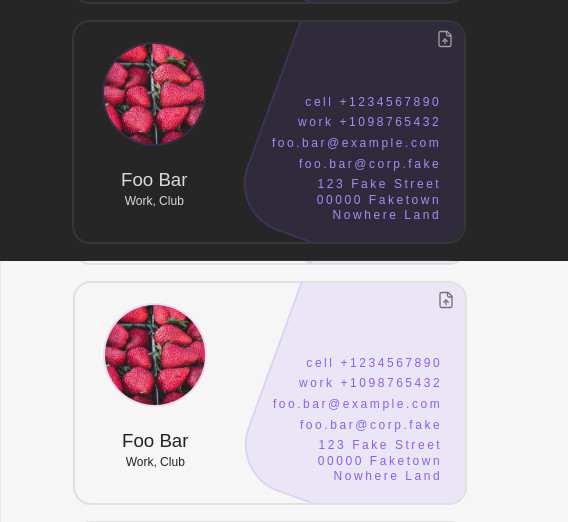
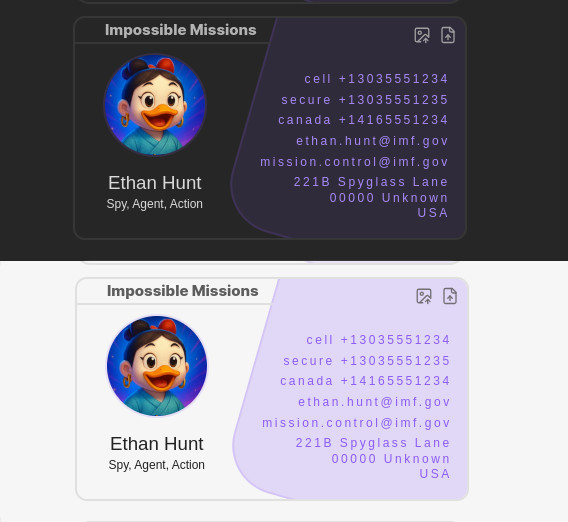
Refs #29: Going threw the readme and updating images with the latest UI and demo dataset

diff --git a/README.md b/README.md
@@ -3,13 +3,12 @@
 <div align="center">
 
 <!-- TOC --><a name="-vcf-contacts-plugin-for-obsidian"></a>
-# ✨ VCF Contacts Plugin for Obsidian  
-**Bring people into your knowledge graph.**  
+# VCF Contacts Plugin for Obsidian  
+**Bring people into your knowledge vault.**  
 
 
 A powerful way to manage, link, and export contact data directly within [Obsidian](https://obsidian.md).
 
-![Obsidian](https://img.shields.io/badge/Obsidian-%23483699.svg?style=for-the-badge&logo=obsidian&logoColor=white)
 ![VCF Contacts Plugin Interface](assets/vfz-contacts-overview.jpg)
 
 </div>
@@ -18,7 +17,7 @@ A powerful way to manage, link, and export contact data directly within [Obsidia
 
 <!-- TOC start -->
 # Table of Contents
-- [✨ VCF Contacts Plugin for Obsidian  ](#-vcf-contacts-plugin-for-obsidian)
+- [VCF Contacts Plugin for Obsidian  ](#-vcf-contacts-plugin-for-obsidian)
    * [🚀 Features at a Glance](#-features-at-a-glance)
    * [📦 Installation](#-installation)
       + [🔄 Automatic via Community Plugins](#-automatic-via-community-plugins)
@@ -50,13 +49,13 @@ A powerful way to manage, link, and export contact data directly within [Obsidia
 <!-- TOC --><a name="-features-at-a-glance"></a>
 ## 🚀 Features at a Glance
 
-- 📁 **Organized Contact Notes** – Every contact is a markdown file, enriched with vCard-compliant frontmatter.
-- 🔍 **Smart Search & Linking** – Easily find, navigate, and link to contacts from any note.
-- 🔄 **vCard 4.0 Support** – Import/export full contact data to/from `.vcf` files.
-- 🖼 **Avatars Support** – Add profile pictures from local files or URLs.
-- 📅 **Birthday Reminders** – Keep track of important dates.
-- 📲 **Click-to-Call & Quick Copy** – Instantly act on phone numbers, emails, and more.
-- ✨ **Minimal, Markdown-native UI** – It's just markdown—but smarter.
+- **Organized Contact Notes** – Every contact is a markdown file, enriched with vCard-compliant frontmatter.
+- **Smart Search & Linking** – Easily find, navigate, and link to contacts from any note.
+- **vCard 4.0 Support** – Import/export full contact data to/from `.vcf` files.
+- **Avatars Support** – Add profile pictures from local files or URLs.
+- **Birthday Reminders** – Keep track of important dates.
+- **Click-to-Call & Quick Copy** – Instantly act on phone numbers, emails, and more.
+- **Minimal, Markdown-native UI** – It's just markdown—but smarter.
 
 ---
 
@@ -187,50 +186,50 @@ It supports a wide range of information, including:
 - 🏷 **Tags and categories**
 - 🔒 **Privacy metadata and revision history**
 
-Using this format ensures your contacts are **portable**, **interoperable**, and **future-proof** — whether you're syncing across devices or backing up your data.
+Using this format ensures your contacts are **portable**, **interoperable**, and **future-proof**.. Whether you're syncing across devices or backing up your data.
 
 > ✅ The VCF Contacts plugin uses **vCard 4.0**, the latest version of the specification.
 
 📜 **Read the official vCard 4.0 spec**:  
 [RFC 6350 – vCard MIME Directory Profile](https://datatracker.ietf.org/doc/html/rfc6350)
 
----
 
 ---
 
 <!-- TOC --><a name="-example-contact-note-foo-bar"></a>
 ## 📄 Example Contact Note (Foo Bar)
 
-Below is a sample contact note for **Foo Bar**, showcasing real-world-style fields supported by the plugin and the vCard 4.0 format:
+Below is a sample contact note for **Ethan Hunt**, showcasing real-world-style fields supported by the plugin and the vCard 4.0 format:
 
 ![Foo Bar Card Example](assets/foo-bar-contact-card-example.jpg)
 
 ```markdown
 ---
-N.GN: Foo  # Given Name
-N.FN: Bar  # Family Name
-EMAIL[HOME]: "foo.bar@example.com"  # Personal Email
-EMAIL[WORK]: "foo.bar@corporate.fake"  # Work Email
-TEL[CELL]: "+1234567890"  # Mobile Phone
-TEL[HOME]: "+1987654321"  # Home Phone
-TEL[WORK]: "+1098765432"  # Work Phone
-BDAY: "1985-12-31"  # Birthday (YYYY-MM-DD)
-URL[HOME]: "https://foobar.example.com"  # Personal Website
-URL[WORK]: "https://company.fake/foobar"  # Work Website
-PHOTO: "https://picsum.photos/200"  # Profile Picture URL
-ADR[HOME].STREET: "123 Fake Street"  # Home Street
-ADR[HOME].LOCALITY: "Faketown"  # Home City
-ADR[HOME].POSTAL: "00000"  # Home ZIP Code
-ADR[HOME].COUNTRY: "Nowhere Land"  # Home Country
-CATEGORIES: "Work, Club"  # Tags/Categories
-VERSION: "4.0"  # vCard Format Version
+N.FN: Hunt
+N.GN: Ethan
+FN: Ethan Hunt
+PHOTO: https://raw.githubusercontent.com/broekema41/obsidian-vcf-contacts/refs/heads/master/assets/demo-data/avatars/avatar10.jpg
+"EMAIL[HOME]": ethan.hunt@imf.gov
+"EMAIL[WORK]": mission.control@imf.gov
+"TEL[CELL]": "+13035551234"
+"TEL[SECURE]": "+13035551235"
+"TEL[CANADA]": "+14165551234"
+BDAY: 1964-07-03
+"URL[HOME]": https://imf.gov/agents/hunt
+"URL[WORK]": https://phoenix.imf.gov/ethan
+ORG: Impossible Missions
+"ADR[HOME].STREET": 221B Spyglass Lane
+"ADR[HOME].LOCALITY": Unknown
+"ADR[HOME].POSTAL": "00000"
+"ADR[HOME].COUNTRY": USA
+CATEGORIES: Spy, Agent, Action
+UID: urn:uuid:019730a76c0df-4fa2-b0cf-8078e4717c93
+VERSION: "4.0"
+
 ---
+#### Notes
 
-#### 📝 Notes
-Additional information or personal notes about Foo Bar.  
-You can link, tag, or embed anything here like a regular Obsidian note.
-
-#Contact
+#Contact #Spy #Agent #Action
 ```
 
 ---
@@ -300,6 +299,8 @@ Here’s a breakdown of supported vCard fields and their **human-readable meanin
 <!-- TOC --><a name="-profile-photo"></a>
 ### 🖼 Profile Photo
 
+Photo's avatars can also be imported from file and will be resized so that they become a integrated part of the contact markdown file by default. 
+
 | **vCard Field**  | **Readable Name**      | **Example**                                |
 |------------------|------------------------|--------------------------------------------|
 | `PHOTO`          | Profile Picture URL    | `https://example.com/photos/foo-bar.jpg`   |
@@ -328,7 +329,7 @@ This plugin solves that beautifully. ✨
 
 ✔ **vCard 4.0 keeps contacts tidy, organized, and universally shareable.**  
 ✔ **Easily import/export contacts between Obsidian and your favorite apps.**  
-✔ **Covers nearly all real-world use cases — personal, work, or hybrid.**  
+✔ **Covers nearly all real-world use cases personal, work, or hybrid.**  
 ✔ **Integrates contacts directly into your knowledge graph.**  
 ✔ **Feels native, modern, and fun to use.**
 
